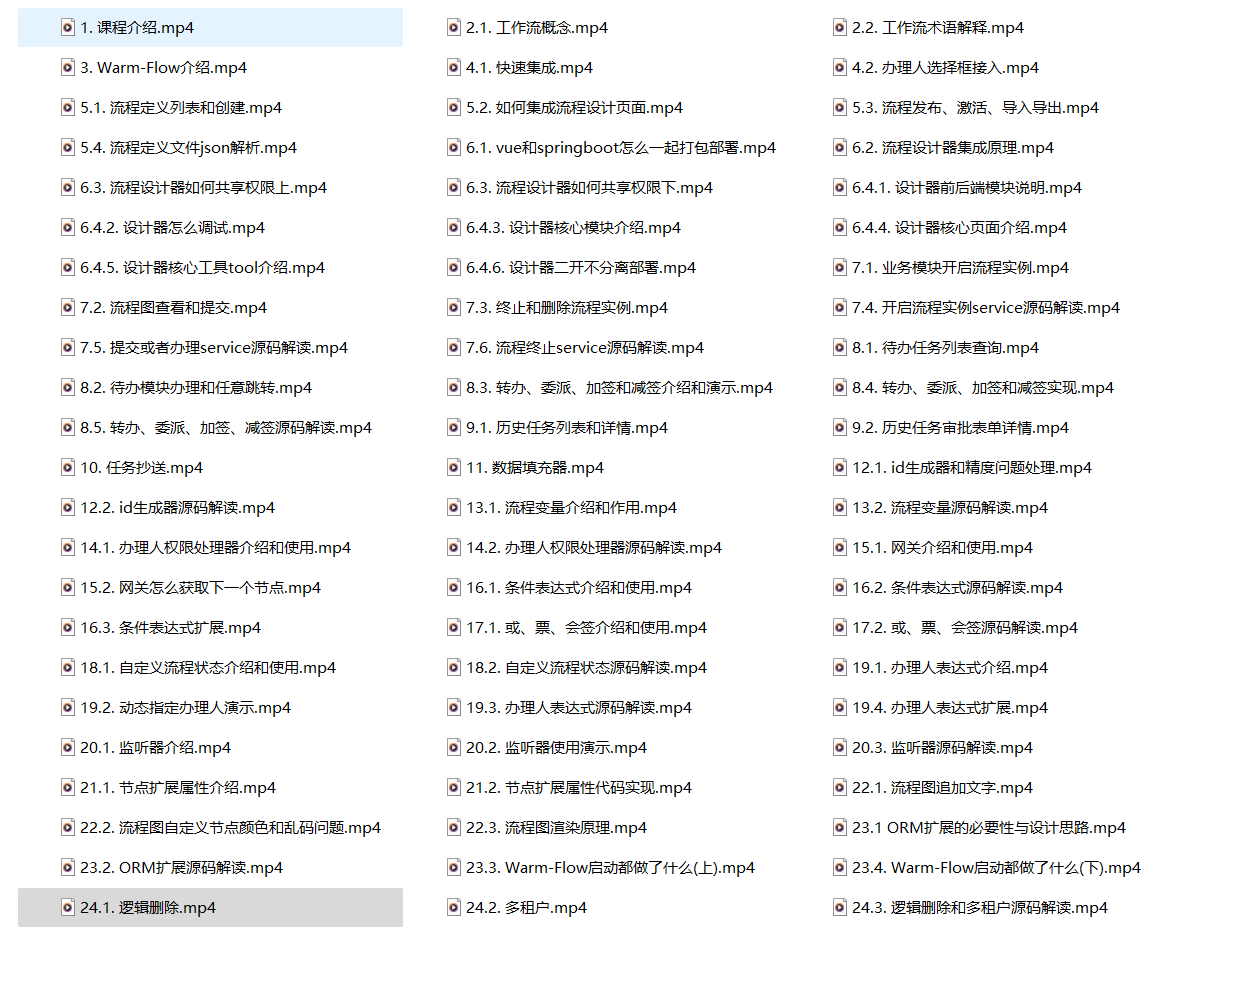
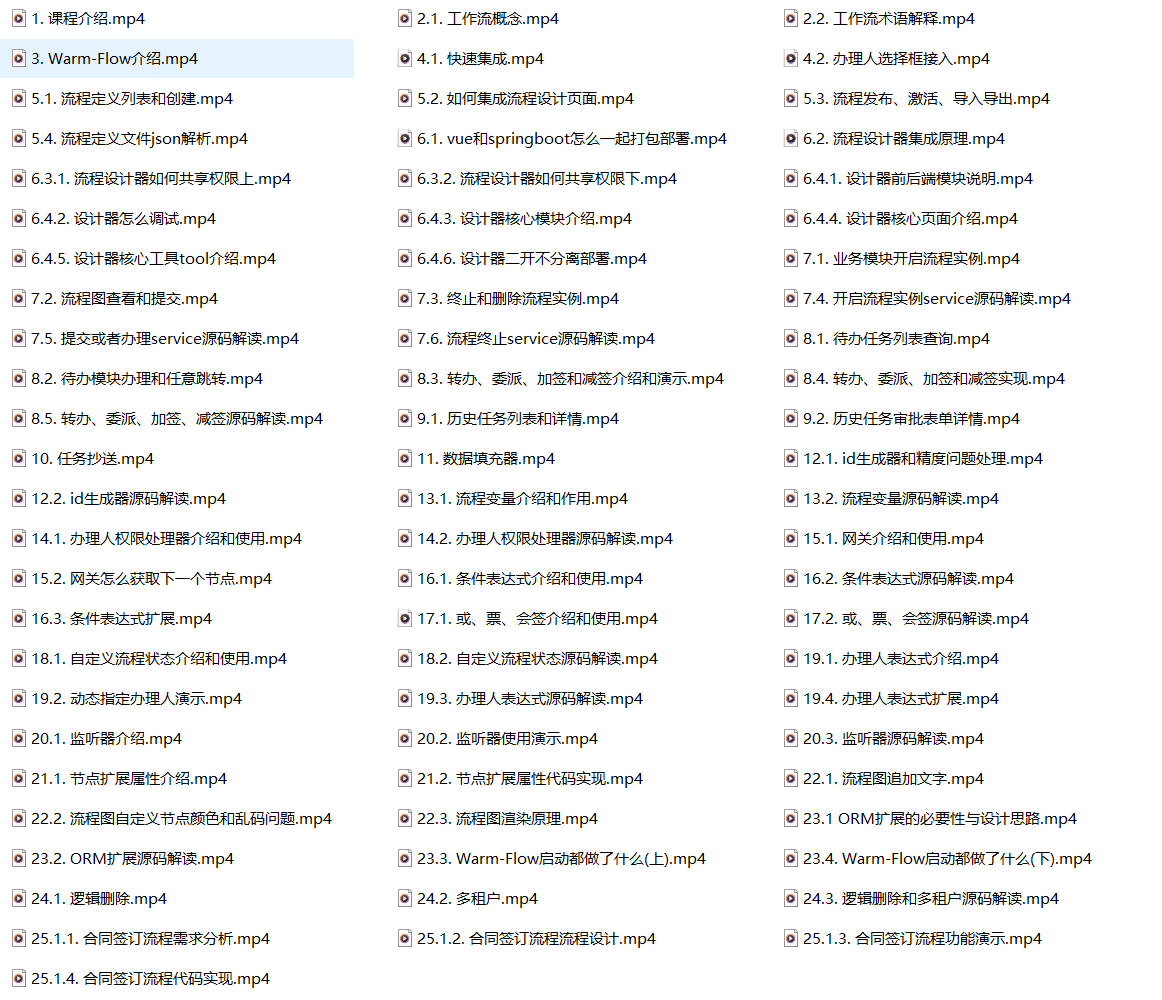
[update] 更新文档

Changed region(s): [[0.0, 0.0, 0.6196, 0.992], [0.6506, 0.0, 0.9294, 0.961]]

diff --git a/src/master/other/videos.md b/src/master/other/videos.md
@@ -34,24 +34,26 @@
 ------
 
 ### **课程试看**
-  * [x] [0. 教程导读](https://www.bilibili.com/video/BV1AWRGYEEVr)
-  * [x] [1. 课程介绍](https://www.bilibili.com/video/BV15yZGYyEy6)
-  * [x] [2.1. 工作流概念](https://www.bilibili.com/video/BV1tufAY6EVr)
-  * [x] [2.2. 工作流术语解释](https://www.bilibili.com/video/BV1nGdHY6EAo)
-  * [x] [3. Warm-Flow介绍](https://www.bilibili.com/video/BV14ufAY6Eyi)
-  * [x] [4.1. 快速集成](https://www.bilibili.com/video/BV1aQd3YAEEg)
-  * [x] [8.3. 待办任务列表查询](https://www.bilibili.com/video/BV1JeZGYHEao/?vd_source=1be886ace16159801f6ed0106df215d9)
+* [x] [0. 教程导读](https://www.bilibili.com/video/BV1AWRGYEEVr)
+* [x] [1. 课程介绍](https://www.bilibili.com/video/BV15yZGYyEy6)
+* [x] [2.1. 工作流概念](https://www.bilibili.com/video/BV1tufAY6EVr)
+* [x] [2.2. 工作流术语解释](https://www.bilibili.com/video/BV1nGdHY6EAo)
+* [x] [3. Warm-Flow介绍](https://www.bilibili.com/video/BV14ufAY6Eyi)
+* [x] [4.1. 快速集成](https://www.bilibili.com/video/BV1aQd3YAEEg)
+* [x] [8.3. 待办任务列表查询](https://www.bilibili.com/video/BV1JeZGYHEao/?vd_source=1be886ace16159801f6ed0106df215d9)
+* [x] [25.1.1. 案例合同签订-需求分析](https://www.bilibili.com/video/BV1WCV8zkEec)
 
 ------
 
 ### **课程目录**
-- 已更新到<span class="red-font-bold">69</span>集，预计会有<span class="red-font-bold">80+</span>集，后续有新增功能，还会多
+- 已更新到<span class="red-font-bold">73</span>集，预计会有<span class="red-font-bold">80+</span>集，后续有新增功能，还会多
 
-- **平均值**：15 分钟 23 秒
-- **0-10分钟**：20 个视频，占比 25%
-- **10-20分钟**：35 个视频，占比 44%
-- **20-30分钟**：10 个视频，占比 13%
-- **30-40分钟**：5 个视频，占比 6%
+- **总时长**：	17:53:39
+- **平均值**：	0:14:42
+- **0-10分钟**：	14	个视频，占比 	19.18%
+- **10-20分钟**：	50	个视频，占比 	68.49%
+- **20-30分钟**：	7	个视频，占比 	9.59%
+- **30-40分钟**：	2	个视频，占比 	2.74%
 
 <div><img src="/videosml.png"></div>
 

diff --git a/src/v1.7.1/other/videos.md b/src/v1.7.1/other/videos.md
@@ -34,24 +34,26 @@
 ------
 
 ### **课程试看**
-  * [x] [0. 教程导读](https://www.bilibili.com/video/BV1AWRGYEEVr)
-  * [x] [1. 课程介绍](https://www.bilibili.com/video/BV15yZGYyEy6)
-  * [x] [2.1. 工作流概念](https://www.bilibili.com/video/BV1tufAY6EVr)
-  * [x] [2.2. 工作流术语解释](https://www.bilibili.com/video/BV1nGdHY6EAo)
-  * [x] [3. Warm-Flow介绍](https://www.bilibili.com/video/BV14ufAY6Eyi)
-  * [x] [4.1. 快速集成](https://www.bilibili.com/video/BV1aQd3YAEEg)
-  * [x] [8.3. 待办任务列表查询](https://www.bilibili.com/video/BV1JeZGYHEao/?vd_source=1be886ace16159801f6ed0106df215d9)
+* [x] [0. 教程导读](https://www.bilibili.com/video/BV1AWRGYEEVr)
+* [x] [1. 课程介绍](https://www.bilibili.com/video/BV15yZGYyEy6)
+* [x] [2.1. 工作流概念](https://www.bilibili.com/video/BV1tufAY6EVr)
+* [x] [2.2. 工作流术语解释](https://www.bilibili.com/video/BV1nGdHY6EAo)
+* [x] [3. Warm-Flow介绍](https://www.bilibili.com/video/BV14ufAY6Eyi)
+* [x] [4.1. 快速集成](https://www.bilibili.com/video/BV1aQd3YAEEg)
+* [x] [8.3. 待办任务列表查询](https://www.bilibili.com/video/BV1JeZGYHEao/?vd_source=1be886ace16159801f6ed0106df215d9)
+* [x] [25.1.1. 案例合同签订-需求分析](https://www.bilibili.com/video/BV1WCV8zkEec)
 
 ------
 
 ### **课程目录**
-- 已更新到<span class="red-font-bold">69</span>集，预计会有<span class="red-font-bold">80+</span>集，后续有新增功能，还会多
+- 已更新到<span class="red-font-bold">73</span>集，预计会有<span class="red-font-bold">80+</span>集，后续有新增功能，还会多
 
-- **平均值**：15 分钟 23 秒
-- **0-10分钟**：20 个视频，占比 25%
-- **10-20分钟**：35 个视频，占比 44%
-- **20-30分钟**：10 个视频，占比 13%
-- **30-40分钟**：5 个视频，占比 6%
+- **总时长**：	17:53:39
+- **平均值**：	0:14:42
+- **0-10分钟**：	14	个视频，占比 	19.18%
+- **10-20分钟**：	50	个视频，占比 	68.49%
+- **20-30分钟**：	7	个视频，占比 	9.59%
+- **30-40分钟**：	2	个视频，占比 	2.74%
 
 <div><img src="/videosml.png"></div>
 
